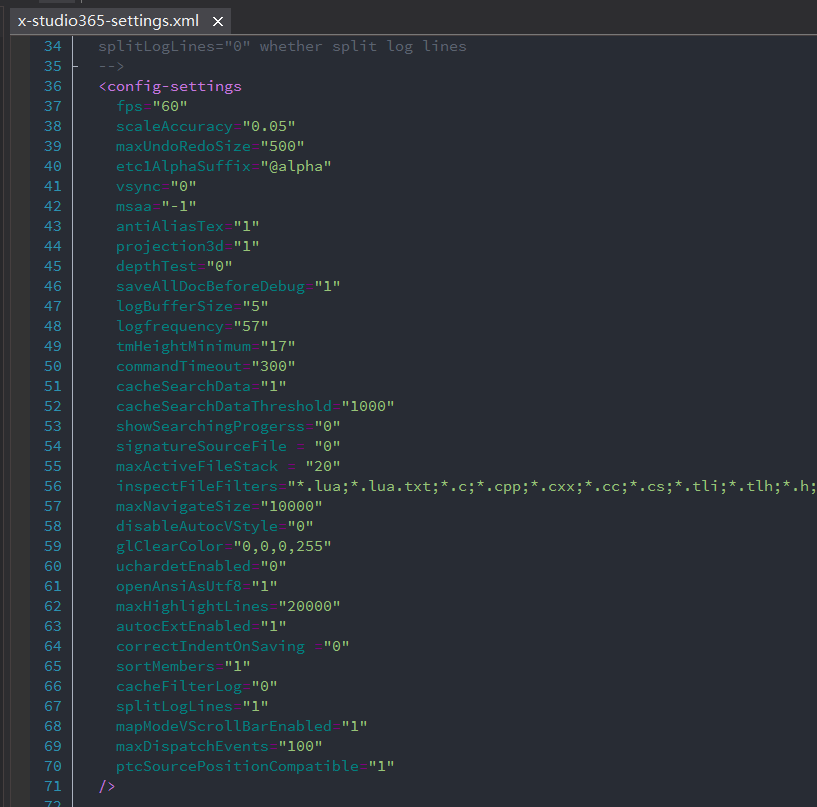
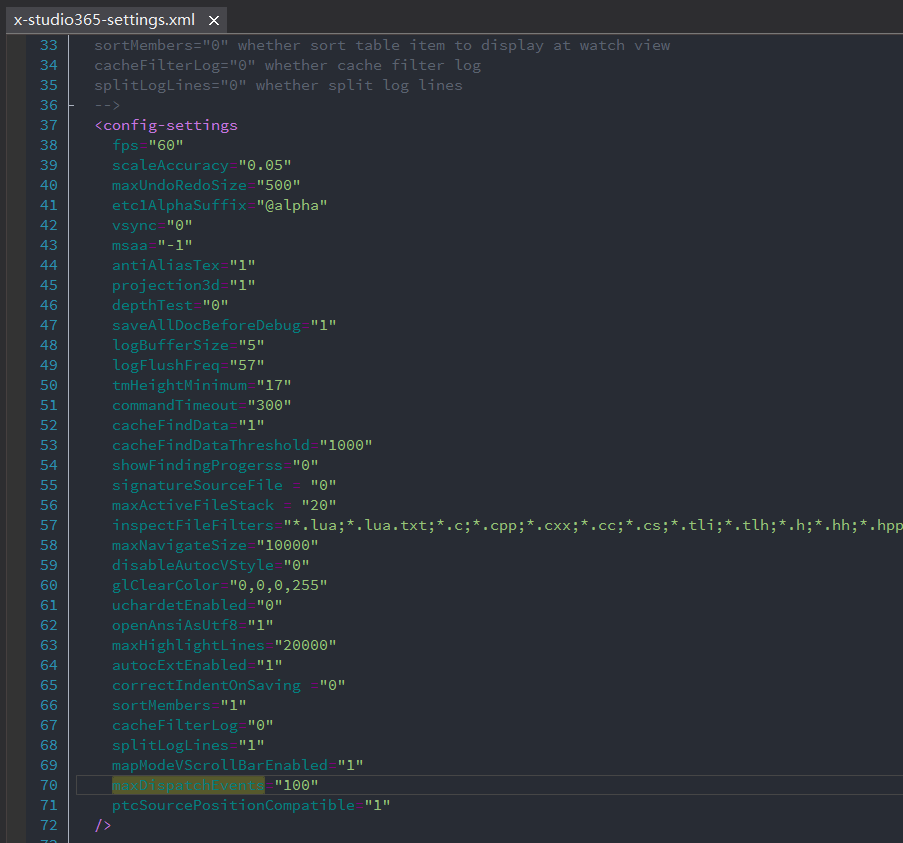
Sync config to 10.0.5900.129.

Changed region(s): [[0.0, 0.0, 1.0, 1.0], [0.7344, 0.5886, 1.0, 0.6506]]

diff --git a/settings.rst b/settings.rst
@@ -44,11 +44,11 @@ x-studio365 - 软件配置
     +-----------------------------------------+--------------------------------------------------------------------------------------------------------------------------------+
     | commandTimeout                          | 命令超时时间，毫秒                                                                                                             |
     +-----------------------------------------+--------------------------------------------------------------------------------------------------------------------------------+
-    | cacheSearchData                         | 是否缓存全工程内容搜索文件数据                                                                                                 |
+    | cacheFindData                           | 是否缓存全工程内容搜索文件数据                                                                                                 |
     +-----------------------------------------+--------------------------------------------------------------------------------------------------------------------------------+
-    | cacheSearchDataThreshold                | 缓存全工程内容搜索最大文件数                                                                                                   |
+    | cacheFindDataThreshold                  | 缓存全工程内容搜索最大文件数                                                                                                   |
     +-----------------------------------------+--------------------------------------------------------------------------------------------------------------------------------+
-    | showSearchingProgerss                   | 是否显示全工程搜索进度对话框                                                                                                   |
+    | showFindingProgerss                     | 是否显示全工程搜索进度对话框                                                                                                   |
     +-----------------------------------------+--------------------------------------------------------------------------------------------------------------------------------+
     | signatureSourceFile                     | 新建文件是否带UTF-8签名                                                                                                        |
     +-----------------------------------------+--------------------------------------------------------------------------------------------------------------------------------+
@@ -73,6 +73,8 @@ x-studio365 - 软件配置
     | cacheFilterLog                          | 是否开启日志过滤缓存，启用后，过滤行为类似xcode, 但注意，大量日志时，可能会导致编辑器卡顿， 默认值0，关闭                      |
     +-----------------------------------------+--------------------------------------------------------------------------------------------------------------------------------+
     | splitLogLines                           | 是否分割日志行，以启用按行过滤，默认值0                                                                                        |
+    +-----------------------------------------+--------------------------------------------------------------------------------------------------------------------------------+
+    | mapModeVScrollBarEnabled                | 是否启用MiniMap垂直滚动条，默认值1，启用                                                                                       |
     +-----------------------------------------+--------------------------------------------------------------------------------------------------------------------------------+
 
    * ``clang-format-options/fallback-style`` ClangFormat-9.0格式化fallback代码风格配置，可取值：
